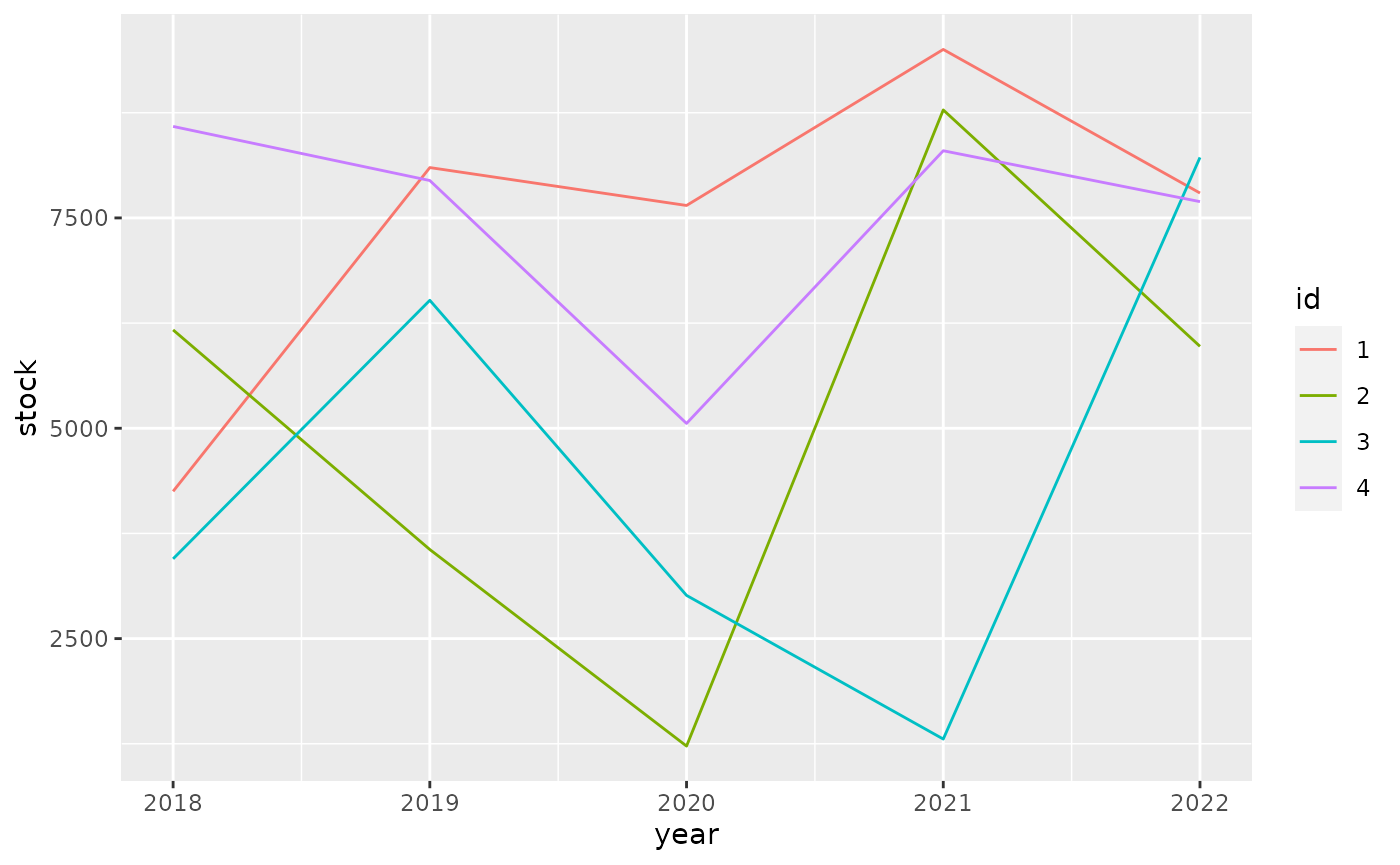
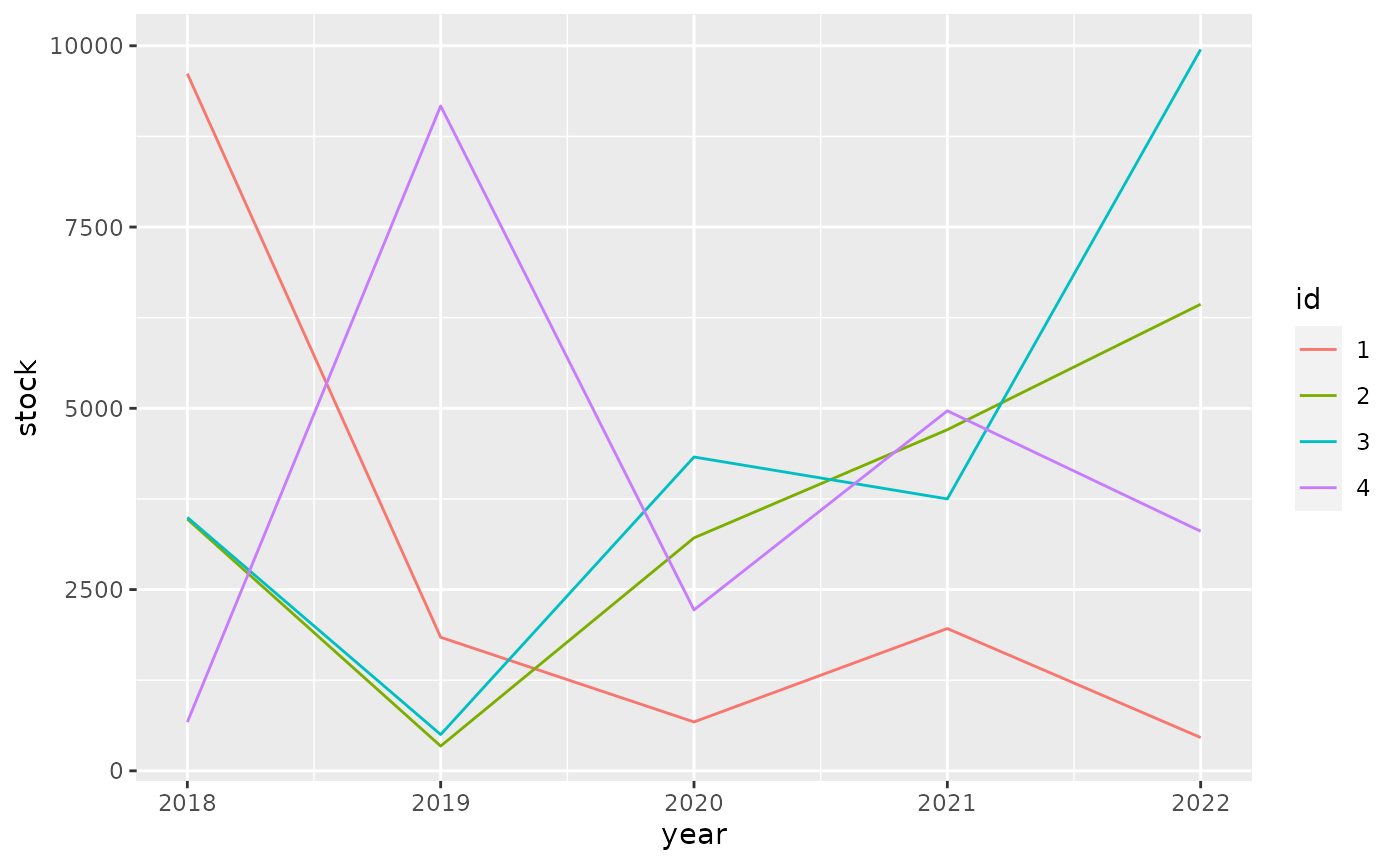
Built site for tibble: 3.1.3.9002@7b778e5

diff --git a/dev/articles/formats.html b/dev/articles/formats.html
@@ -221,10 +221,10 @@
 <span class="co">#&gt; # A tibble: 4 × 6</span>
 <span class="co">#&gt;   id       `2018`    `2019`    `2020`    `2021`    `2022`</span>
 <span class="co">#&gt;   &lt;fct&gt; &lt;dbl:fmt&gt; &lt;dbl:fmt&gt; &lt;dbl:fmt&gt; &lt;dbl:fmt&gt; &lt;dbl:fmt&gt;</span>
-<span class="co">#&gt; 1 1     $4,250.35 $8,098.46 $7,647.90 $9,502.50 $7,795.76</span>
-<span class="co">#&gt; 2 2     $6,168.99 $3,558.74 $1,222.52 $8,783.45 $5,973.66</span>
-<span class="co">#&gt; 3 3     $3,448.04 $6,520.83 $3,013.55 $1,306.11 $8,219.22</span>
-<span class="co">#&gt; 4 4     $8,587.42 $7,944.56 $5,057.38 $8,298.43 $7,693.57</span></code></pre></div>
+<span class="co">#&gt; 1 1     $9,615.45 $1,841.95   $674.32 $1,962.45   $459.40</span>
+<span class="co">#&gt; 2 2     $3,472.02   $341.48 $3,213.02 $4,704.74 $6,435.26</span>
+<span class="co">#&gt; 3 3     $3,495.93   $500.39 $4,328.38 $3,750.29 $9,949.46</span>
+<span class="co">#&gt; 4 4       $672.08 $9,170.39 $2,219.61 $4,965.29 $3,304.39</span></code></pre></div>
 <p>For ggplot2 we need to do <a href="https://github.com/tidyverse/ggplot2/pull/4065" class="external-link">some work</a> to show apply the formatting to the scales.</p>
 <div class="sourceCode" id="cb6"><pre class="downlit sourceCode r">
 <code class="sourceCode R"><span class="kw"><a href="https://rdrr.io/r/base/library.html" class="external-link">library</a></span><span class="op">(</span><span class="va"><a href="https://ggplot2.tidyverse.org" class="external-link">ggplot2</a></span><span class="op">)</span>
@@ -235,10 +235,10 @@
   <span class="fu"><a href="https://ggplot2.tidyverse.org/reference/geom_path.html" class="external-link">geom_line</a></span><span class="op">(</span><span class="op">)</span></code></pre></div>
 <p><img src="formats_files/figure-html/unnamed-chunk-7-1.png" width="700"></p>
 <p>It pays off to specify formatting very early in the process. The diagram below shows the principal stages of data analysis and exploration from “R for data science”.</p>
-<div id="htmlwidget-5632efe336f623f17512" style="width:700px;height:432.632880098888px;" class="DiagrammeR html-widget"></div>
-<script type="application/json" data-for="htmlwidget-5632efe336f623f17512">{"x":{"diagram":"graph TD\n  Import --> Tidy\n  Tidy --> Transform\n  Transform --> Visualize\n  Visualize --> Communicate\n  Visualize --> Model\n  Model -.-> Transform"},"evals":[],"jsHooks":[]}</script><p>The subsequent diagram adds data formats, communication options, and explicit data formatting. The original r4ds transitions are highlighted in bold. There are two principal options where to apply formatting for results: right before communicating them, or right after importing.</p>
-<div id="htmlwidget-86186bd532049df12601" style="width:700px;height:432.632880098888px;" class="DiagrammeR html-widget"></div>
-<script type="application/json" data-for="htmlwidget-86186bd532049df12601">{"x":{"diagram":"graph TD\n  .csv --> Import\n  API --> Import\n  DBI --> Import\n  dbplyr --> Import\n  Import -.-> Format[Format for analysis]\n  Format -.-> Tidy\n\n  subgraph r4ds\n  Import ==> Tidy\n  Tidy ==> Transform\n  Transform ==> Visualize\n  Visualize ==> Model\n  Model -.-> Transform\n  Visualize ==> Communicate\n  end\n\n  Visualize -.-> FormatComm[Format for communication]\n  FormatComm -.-> Communicate\n\n  FormatComm -- Apply formatting early --> Format\n\n  dbplyr -.-> Tidy\n  dbplyr -.-> Transform\n  dbplyr -.-> Visualize\n\n  Communicate --> gt\n  Communicate --> ggplot2\n  Communicate --> DT\n  Communicate --> plotly"},"evals":[],"jsHooks":[]}</script><p>Applying formatting early in the process gives the added benefit of showing the data in a useful format during the “Tidy”, “Transform”, and “Visualize” stages. For this to be useful, we need to ensure that the formatting options applied early:</p>
+<div id="htmlwidget-d65de41aa6992863796c" style="width:700px;height:432.632880098888px;" class="DiagrammeR html-widget"></div>
+<script type="application/json" data-for="htmlwidget-d65de41aa6992863796c">{"x":{"diagram":"graph TD\n  Import --> Tidy\n  Tidy --> Transform\n  Transform --> Visualize\n  Visualize --> Communicate\n  Visualize --> Model\n  Model -.-> Transform"},"evals":[],"jsHooks":[]}</script><p>The subsequent diagram adds data formats, communication options, and explicit data formatting. The original r4ds transitions are highlighted in bold. There are two principal options where to apply formatting for results: right before communicating them, or right after importing.</p>
+<div id="htmlwidget-3fa5d43888bd66835ab1" style="width:700px;height:432.632880098888px;" class="DiagrammeR html-widget"></div>
+<script type="application/json" data-for="htmlwidget-3fa5d43888bd66835ab1">{"x":{"diagram":"graph TD\n  .csv --> Import\n  API --> Import\n  DBI --> Import\n  dbplyr --> Import\n  Import -.-> Format[Format for analysis]\n  Format -.-> Tidy\n\n  subgraph r4ds\n  Import ==> Tidy\n  Tidy ==> Transform\n  Transform ==> Visualize\n  Visualize ==> Model\n  Model -.-> Transform\n  Visualize ==> Communicate\n  end\n\n  Visualize -.-> FormatComm[Format for communication]\n  FormatComm -.-> Communicate\n\n  FormatComm -- Apply formatting early --> Format\n\n  dbplyr -.-> Tidy\n  dbplyr -.-> Transform\n  dbplyr -.-> Visualize\n\n  Communicate --> gt\n  Communicate --> ggplot2\n  Communicate --> DT\n  Communicate --> plotly"},"evals":[],"jsHooks":[]}</script><p>Applying formatting early in the process gives the added benefit of showing the data in a useful format during the “Tidy”, “Transform”, and “Visualize” stages. For this to be useful, we need to ensure that the formatting options applied early:</p>
 <ul>
 <li>give a good user experience for analysis
 <ul>

diff --git a/dev/articles/types.html b/dev/articles/types.html
@@ -352,7 +352,7 @@
 #&gt; $ factor        &lt;fct&gt; A
 #&gt; $ ordered       &lt;ord&gt; a
 #&gt; $ Date          &lt;date&gt; 2021-07-31
-#&gt; $ POSIXt        &lt;dttm&gt; 2021-07-31 08:59:54
+#&gt; $ POSIXt        &lt;dttm&gt; 2021-07-31 09:44:55
 #&gt; $ difftime      &lt;drtn&gt; 1 secs
 #&gt; $ hms           &lt;time&gt; 00:00:01
 #&gt; $ integer64     &lt;int64&gt; 10000000000
@@ -388,7 +388,7 @@
 <span class="co">#&gt;             "sym"</span>
 <span class="co">#&gt;         }, typeof(x))</span>
 <span class="co">#&gt; }</span>
-<span class="co">#&gt; &lt;bytecode: 0x5593527fe0e0&gt;</span>
+<span class="co">#&gt; &lt;bytecode: 0x55e233cf0560&gt;</span>
 <span class="co">#&gt; &lt;environment: namespace:pillar&gt;</span></code></pre></div>
 </div>
   </div>
